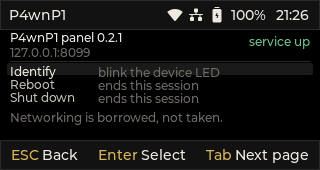
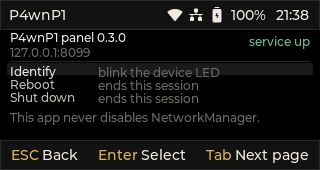
0.3.1: the networking guarantee was a claim about code that runs nowhere
Checking this package against the CardputerZero store's own install-path
policy turned up something worse than a policy violation: the package ships
no maintainer scripts at all, and no file in it so much as mentions
NetworkManager.

So the whole "networking is borrowed, not seized" section was describing a
mechanism that does not run. src/service/network_custody is a pure decision
function with one caller -- its own test. It is not referenced from the app,
and the linker drops it. There is no postrm, so removal reconciles nothing;
there is no arm or disarm, because the panel has no "arm a network mode"
feature yet; and there is no startup reconciliation either.

The README said "the same reconciliation runs on startup, arm, disarm and
removal". It runs in none of them. The System screen told the operator
"Networking is borrowed, not taken", which is a claim about active management
that nothing performs.

What is actually true is still worth saying, and is now what gets said: this
package never touches NetworkManager, unlike P4wnP1's install.sh which
disables it outright and breaks the CardputerZero's own LaunchWizard and
Settings. Installing or removing this leaves the device's networking exactly
as it was. The guarantee holds because of what the package does not do, not
because of anything it manages. The custody logic remains written and tested
ahead of the feature, which is the right order -- but it is a plan, not a
[…]

Changed region(s): [[0.0312, 0.6471, 0.8125, 0.7353], [0.3438, 0.1765, 0.4062, 0.2647], [0.9062, 0.0588, 0.9688, 0.1176]]

diff --git a/app/src/view/screens/system_screen.cpp b/app/src/view/screens/system_screen.cpp
@@ -251,7 +251,11 @@ void SystemScreen::render() {
         // this ran its second line straight through the "Shut down" row: the
         // content area is 110px and the rows already reach 82.
         auto* note = lv_label_create(content_);
-        lv_label_set_text(note, "Networking is borrowed, not taken.");
+        // Was "Networking is borrowed, not taken." -- which describes a
+        // mechanism that is written and tested but wired to nothing. What is
+        // actually true, and is the reassurance that matters, is that this
+        // app never disables NetworkManager the way P4wnP1's installer does.
+        lv_label_set_text(note, "This app never disables NetworkManager.");
         lv_obj_set_style_text_font(note, face(f_note), 0);
         lv_obj_set_style_text_color(note, p.text_disabled, 0);
         lv_obj_set_width(note, kScreenWidth - (metric::kGutter * 2));

diff --git a/README.md b/README.md
@@ -26,7 +26,7 @@ device's own Wi-Fi settings keep working.
 Take the package from [the latest release](https://github.com/at0m-b0mb/P4wnP1-CardputerZero/releases/latest):
 
 ```bash
-sudo apt install ./P4wnP1_0.3.0_rev1_arm64.deb
+sudo apt install ./P4wnP1_0.3.1_rev1_arm64.deb
 ```
 
 It appears in APPLaunch as **P4wnP1**. `apt remove` leaves the device as it was found; `apt
@@ -104,16 +104,29 @@ accepted what was typed into it**, and it does not pretend to.
 - A service that is down and a service that refuses are distinguished, because they call for
   different actions.
 
-## Networking is borrowed, not seized
+## Networking: what is true today
 
 P4wnP1's `install.sh` disables NetworkManager outright, which on a CardputerZero breaks
-LaunchWizard and Settings — both depend on it. So the panel stops it when a network mode is
-**armed** and restores it on **disarm**, never at install time.
+LaunchWizard and Settings — both depend on it.
 
-The property that matters is not "disarm restores it". It is that it is restored even when
-disarm never happens: a crash, a kill, a power cut, or the package removed while armed.
-Custody is recorded on disk *before* NetworkManager is stopped and cleared only *after* it is
-running again, and the same reconciliation runs on startup, arm, disarm and removal.
+**This package never touches NetworkManager.** No file in it mentions NetworkManager, it
+ships no maintainer scripts, and the panel has no "arm a network mode" feature yet — so
+nothing here has cause to take networking away, and installing or removing it leaves the
+device's own networking exactly as it was. That is the whole of the current guarantee, and
+it holds because of what the package *does not* do rather than because of anything it
+manages.
+
+`src/service/network_custody.{h,cpp}` holds the borrow-and-return decision logic for when
+arming does land, and `tests/test_network_custody.cpp` pins it: custody is recorded on disk
+*before* NetworkManager would be stopped and cleared only *after* it is running again, so it
+is handed back even when disarm never happens — a crash, a kill, a power cut, or the package
+removed while armed.
+
+**That module is not wired to anything yet.** Its only caller is its own test. Earlier
+versions of this README said the reconciliation "runs on startup, arm, disarm and removal";
+it runs in none of those places, because none of them exist yet. The design is settled and
+tested ahead of the feature, which is the right order — but it is a plan, not a running
+safeguard, and this file said otherwise.
 
 ## Not yet verified on hardware
 
